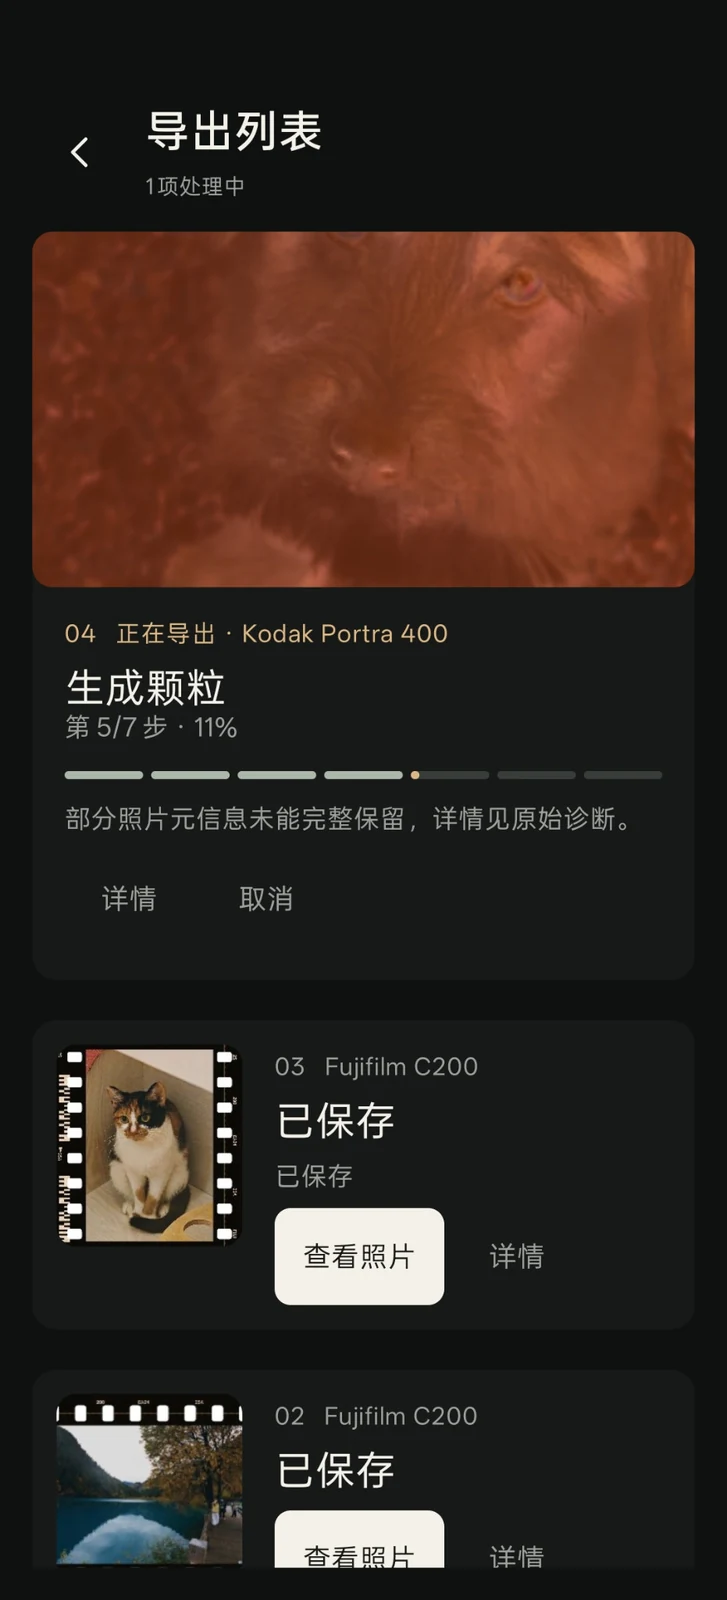
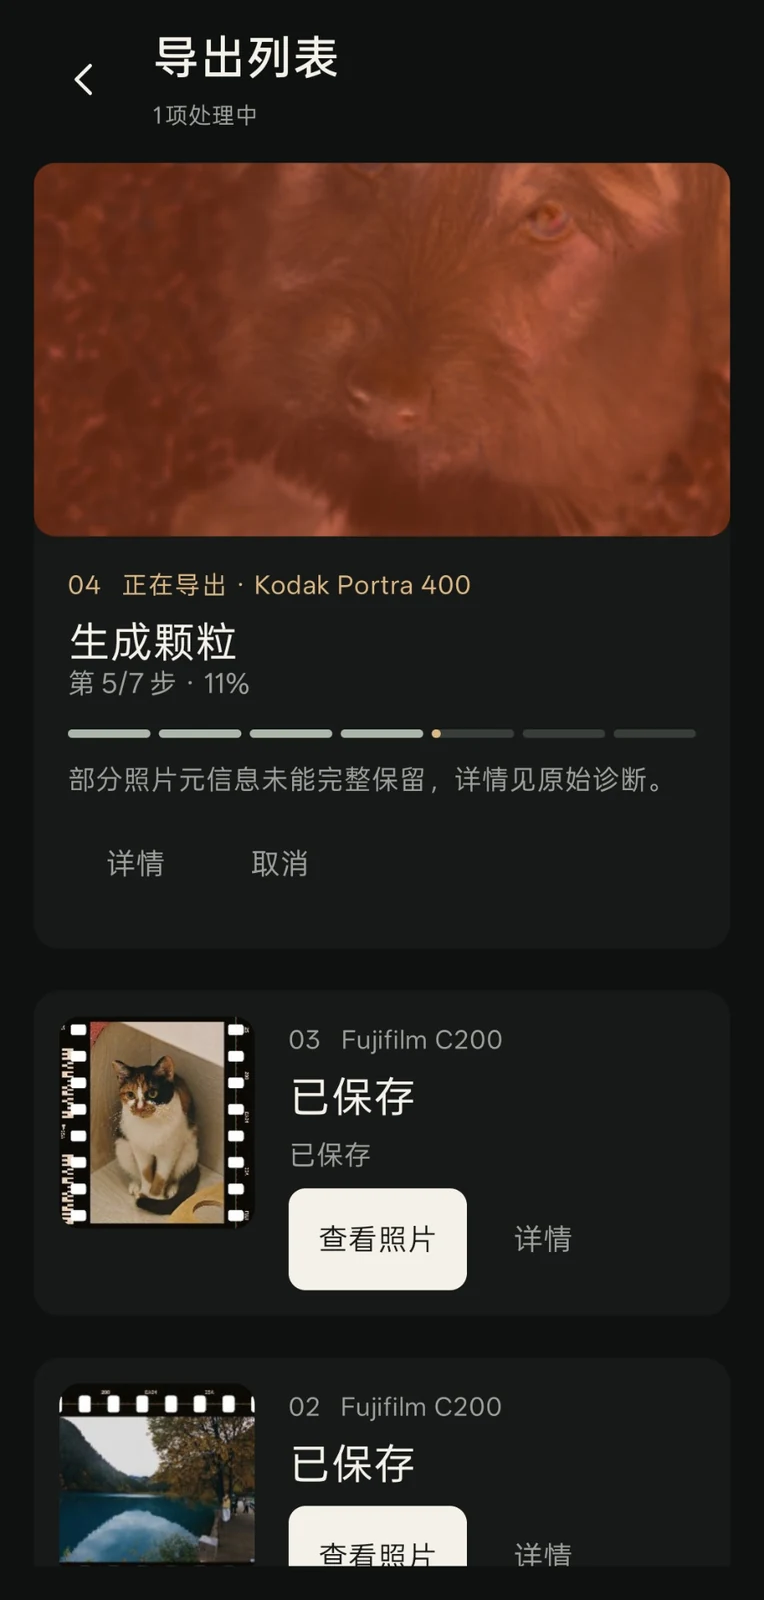
docs: align showcase screenshot heights

diff --git a/README.en.md b/README.en.md
@@ -63,7 +63,7 @@ Landscape and portrait compositions, keeping every perforation and the entire fr
   <a href="docs/images/showcase/framed-cat.webp"><img src="docs/images/showcase/framed-cat.webp" width="31%" align="top" alt="Film-edge sample: cat" /></a>
 </p>
 
-<sub>User-provided screenshots and finished photos. Click an image to view it larger. Web copies are resized with metadata removed, without additional color grading or cropping. Film edges are app-generated frames, not scans of physical film.</sub>
+<sub>User-provided screenshots and finished photos. Click an image to view it larger. Web copies are resized with metadata removed and no additional color grading. Sample photos retain their full composition; only excess top spacing in the interface screenshots is trimmed. Film edges are app-generated frames, not scans of physical film.</sub>
 
 ## Start with a roll of film
 

diff --git a/README.md b/README.md
@@ -63,7 +63,7 @@
   <a href="docs/images/showcase/framed-cat.webp"><img src="docs/images/showcase/framed-cat.webp" width="31%" align="top" alt="齿边样片：猫" /></a>
 </p>
 
-<sub>以上为用户提供的界面截图与成片。点击图片查看大图；网页展示副本已缩小并移除元信息，未额外调色或裁剪。齿边为应用生成的边框水印，并非实物胶片扫描。</sub>
+<sub>以上为用户提供的界面截图与成片。点击图片查看大图；网页展示副本已缩小并移除元信息，未额外调色；样片保留完整画幅，界面截图仅整理顶部留白。齿边为应用生成的边框水印，并非实物胶片扫描。</sub>
 
 ## 从选一卷胶片开始
 
